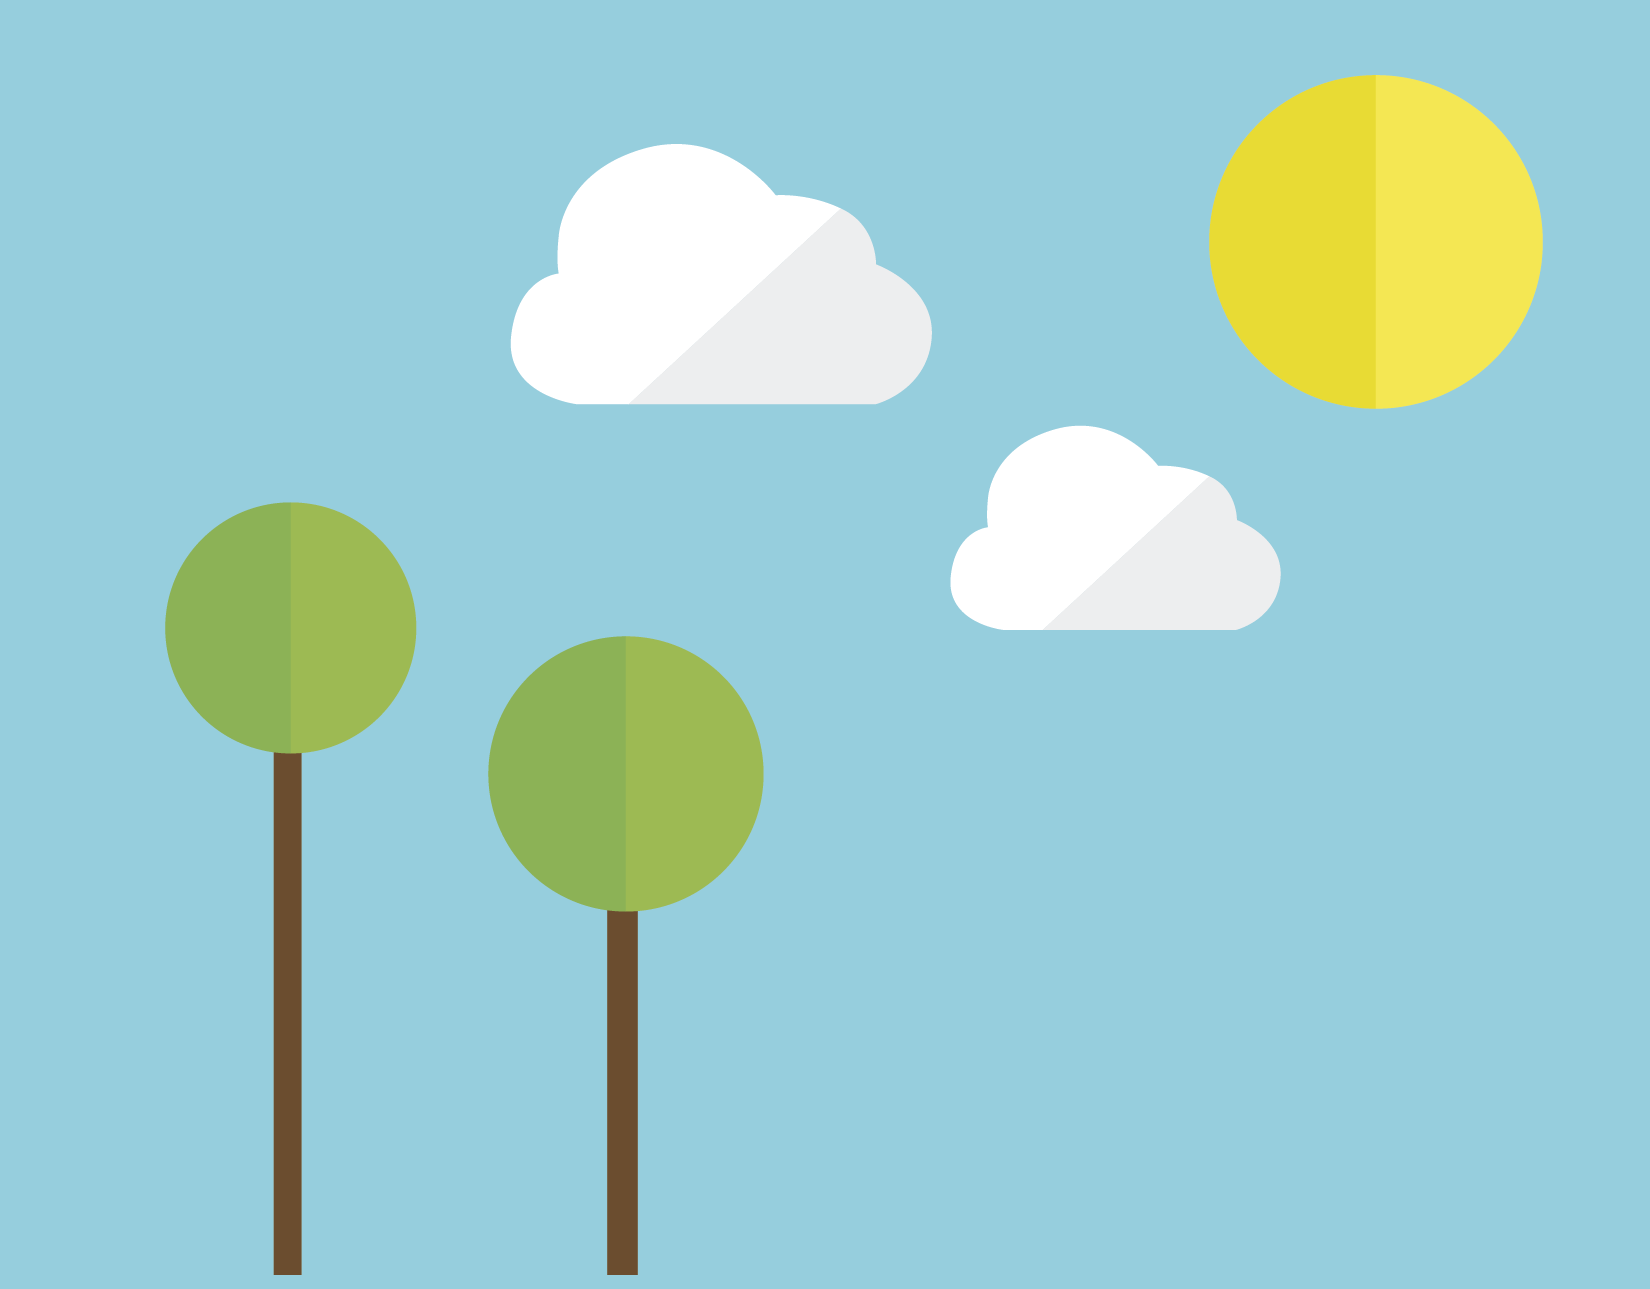
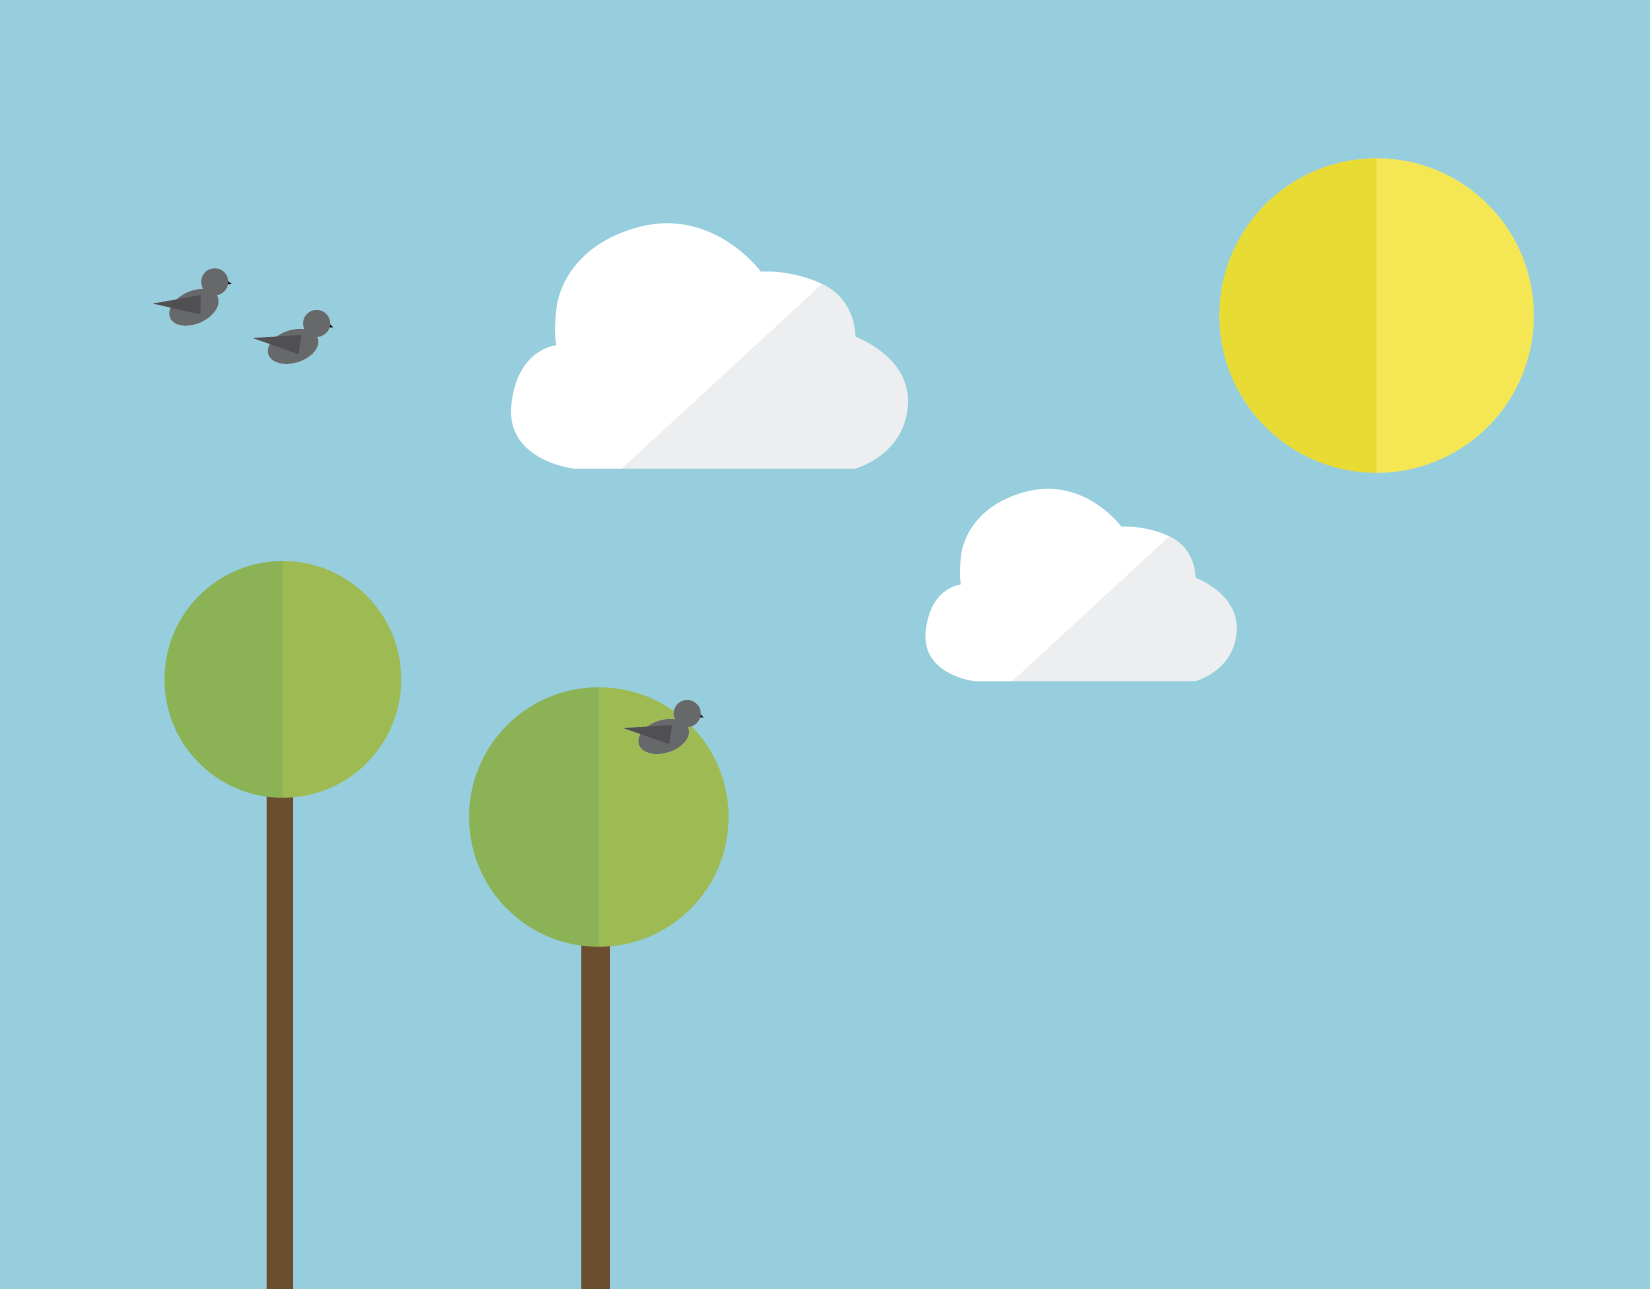
Add birds

diff --git a/index.html b/index.html
@@ -63,7 +63,7 @@ background-size: cover;
      }
 
 
-    var xpos = 200;
+    var xpos = 900;
     var ypos = 200;
     var left = false;
     var right = false
